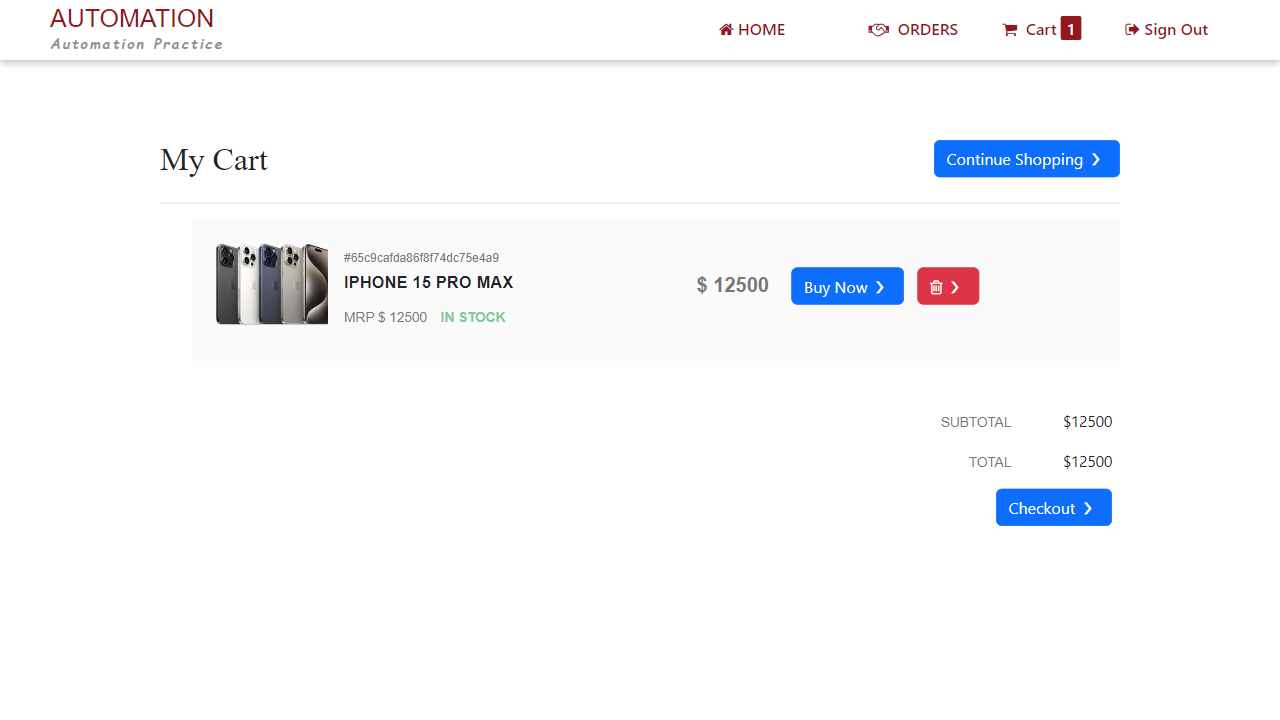
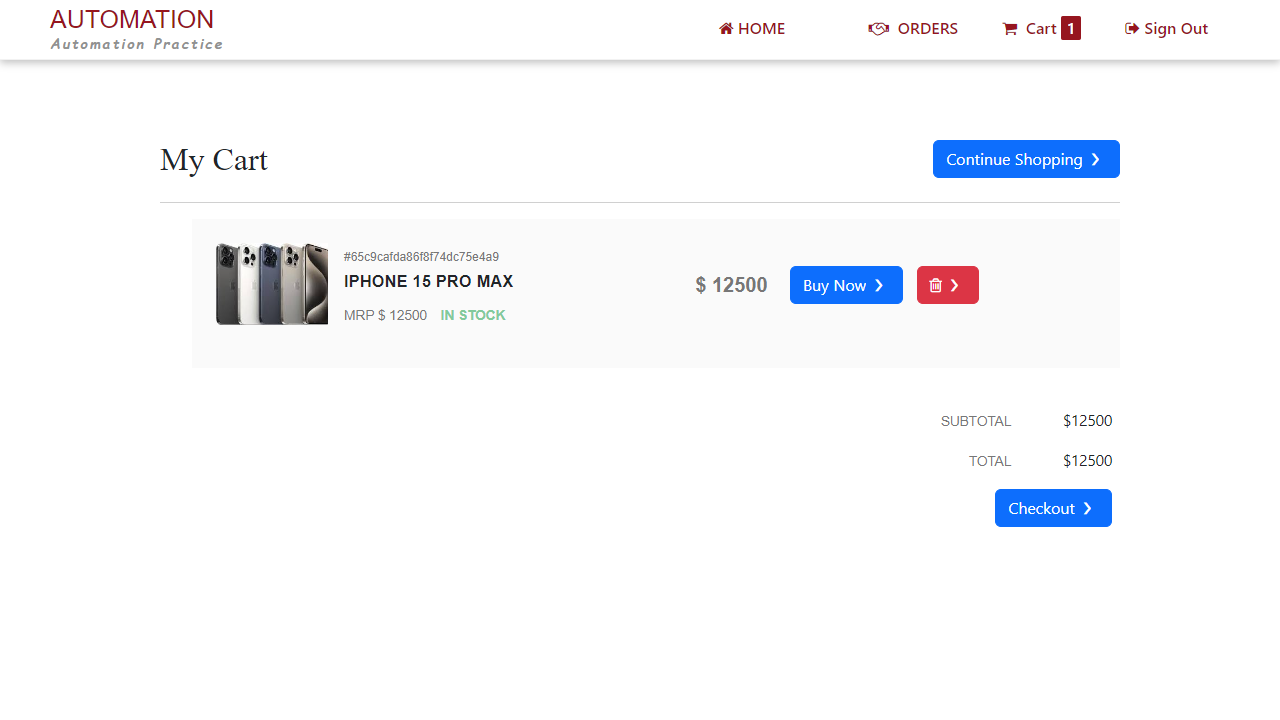
from HP laptop

diff --git a/RahulShetty/playwright.config.js b/RahulShetty/playwright.config.js
@@ -11,21 +11,16 @@ const { defineConfig, devices } = require('@playwright/test');
  * @see https://playwright.dev/docs/test-configuration
  */
 module.exports = defineConfig({
+  // testDir: './e2e',
   testDir: './tests',
-  timeout: 60 * 1000,
-  expect: {timeout: 30 * 1000},
   /* Run tests in files in parallel */
-  fullyParallel: false,
-  retries: 2,
-  /* Define number of workers required */
-  // workers: 2,
+  fullyParallel: true,
   /* Fail the build on CI if you accidentally left test.only in the source code. */
   forbidOnly: !!process.env.CI,
-
   /* Retry on CI only */
-  // retries: process.env.CI ? 2 : 0,
+  retries: process.env.CI ? 2 : 0,
   /* Opt out of parallel tests on CI. */
-  // workers: process.env.CI ? 1 : undefined,
+  workers: process.env.CI ? 1 : undefined,
   /* Reporter to use. See https://playwright.dev/docs/test-reporters */
   reporter: 'html',
   /* Shared settings for all the projects below. See https://playwright.dev/docs/api/class-testoptions. */
@@ -35,16 +30,14 @@ module.exports = defineConfig({
 
     /* Collect trace when retrying the failed test. See https://playwright.dev/docs/trace-viewer */
     trace: 'on-first-retry',
-    headless: true,
-    screenshot: 'only-on-failure',
   },
 
   /* Configure projects for major browsers */
   projects: [
-    // {
-    //   name: 'chromium',
-    //   use: { ...devices['Desktop Chrome'] },
-    // },
+    {
+      name: 'chromium',
+      use: { ...devices['Desktop Chrome'] },
+    },
 
     // {
     //   name: 'firefox',
@@ -71,10 +64,10 @@ module.exports = defineConfig({
     //   name: 'Microsoft Edge',
     //   use: { ...devices['Desktop Edge'], channel: 'msedge' },
     // },
-    {
-      name: 'Google Chrome',
-      use: { ...devices['Desktop Chrome'], channel: 'chrome' },
-    },
+    // {
+    //   name: 'Google Chrome',
+    //   use: { ...devices['Desktop Chrome'], channel: 'chrome' },
+    // },
   ],
 
   /* Run your local dev server before starting the tests */
@@ -84,3 +77,4 @@ module.exports = defineConfig({
   //   reuseExistingServer: !process.env.CI,
   // },
 });
+

diff --git a/Intro/addTwoNum.js b/Intro/addTwoNum.js
@@ -7,10 +7,10 @@ console.log('sum of '+a+ ' and ' +b+ ' is equal to '+sum);
 
 //Javascript program to add two numbers by taking input from user on console
 
-console.log('Javascript program to add two numbers by taking input from user on console')
-const num1 = parseInt(prompt('Enter first number: '));
-const num2 = parseInt(prompt('Enter second number: '));
+// console.log('Javascript program to add two numbers by taking input from user on console')
+// const num1 = parseInt(prompt('Enter first number: '));
+// const num2 = parseInt(prompt('Enter second number: '));
 
-const sum1 = num1 + num2;
+// const sum1 = num1 + num2;
 
-console.log('sum of '+num1+ ' and '+num2+ ' is equal to '+sum1)
+// console.log('sum of '+num1+ ' and '+num2+ ' is equal to '+sum1)

diff --git a/RahulShetty/e2e/example.spec.js b/RahulShetty/e2e/example.spec.js
@@ -1,0 +1,19 @@
+// @ts-check
+const { test, expect } = require('@playwright/test');
+
+test('has title', async ({ page }) => {
+  await page.goto('https://playwright.dev/');
+
+  // Expect a title "to contain" a substring.
+  await expect(page).toHaveTitle(/Playwright/);
+});
+
+test('get started link', async ({ page }) => {
+  await page.goto('https://playwright.dev/');
+
+  // Click the get started link.
+  await page.getByRole('link', { name: 'Get started' }).click();
+
+  // Expects page to have a heading with the name of Installation.
+  await expect(page.getByRole('heading', { name: 'Installation' })).toBeVisible();
+});

diff --git a/RahulShetty/tests/OrdersCleanUp.spec.js b/RahulShetty/tests/OrdersCleanUp.spec.js
@@ -4,6 +4,7 @@ const { brotliCompress } = require('zlib');
 test("Clean Up Orders Page", async({page}) => {
 
     const emailID = "resttassuredd@gmail.com";
+    // const emailID = "restassured@gmail.com";
     await page.goto("https://rahulshettyacademy.com/client");
     await page.locator("#userEmail").fill(emailID);
     await page.locator("#userPassword").fill("Welcome@123");
